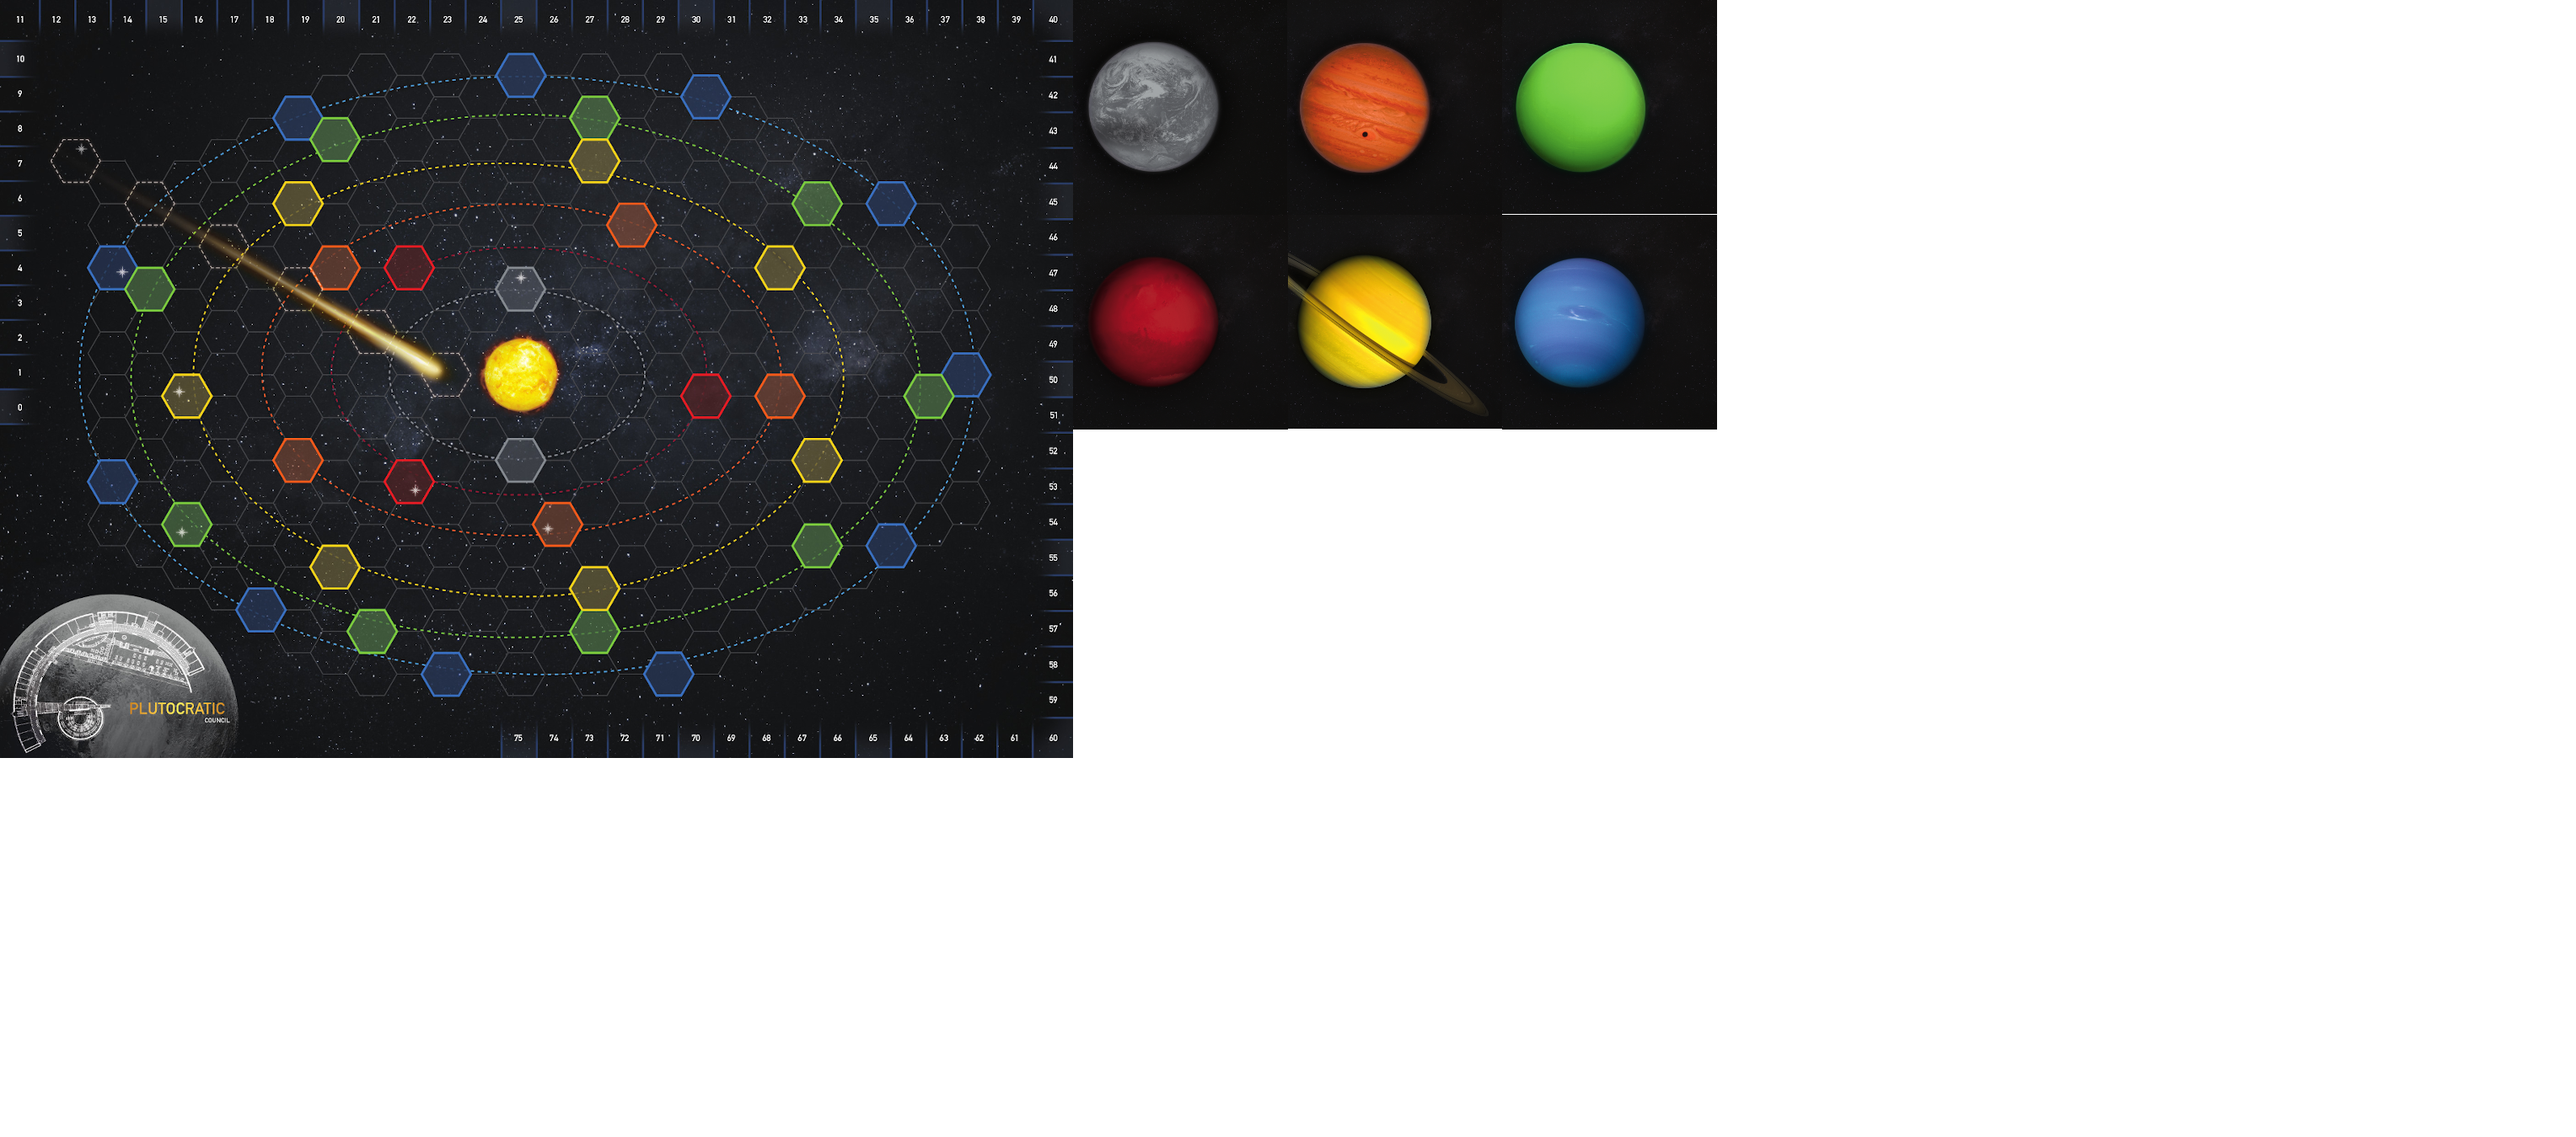
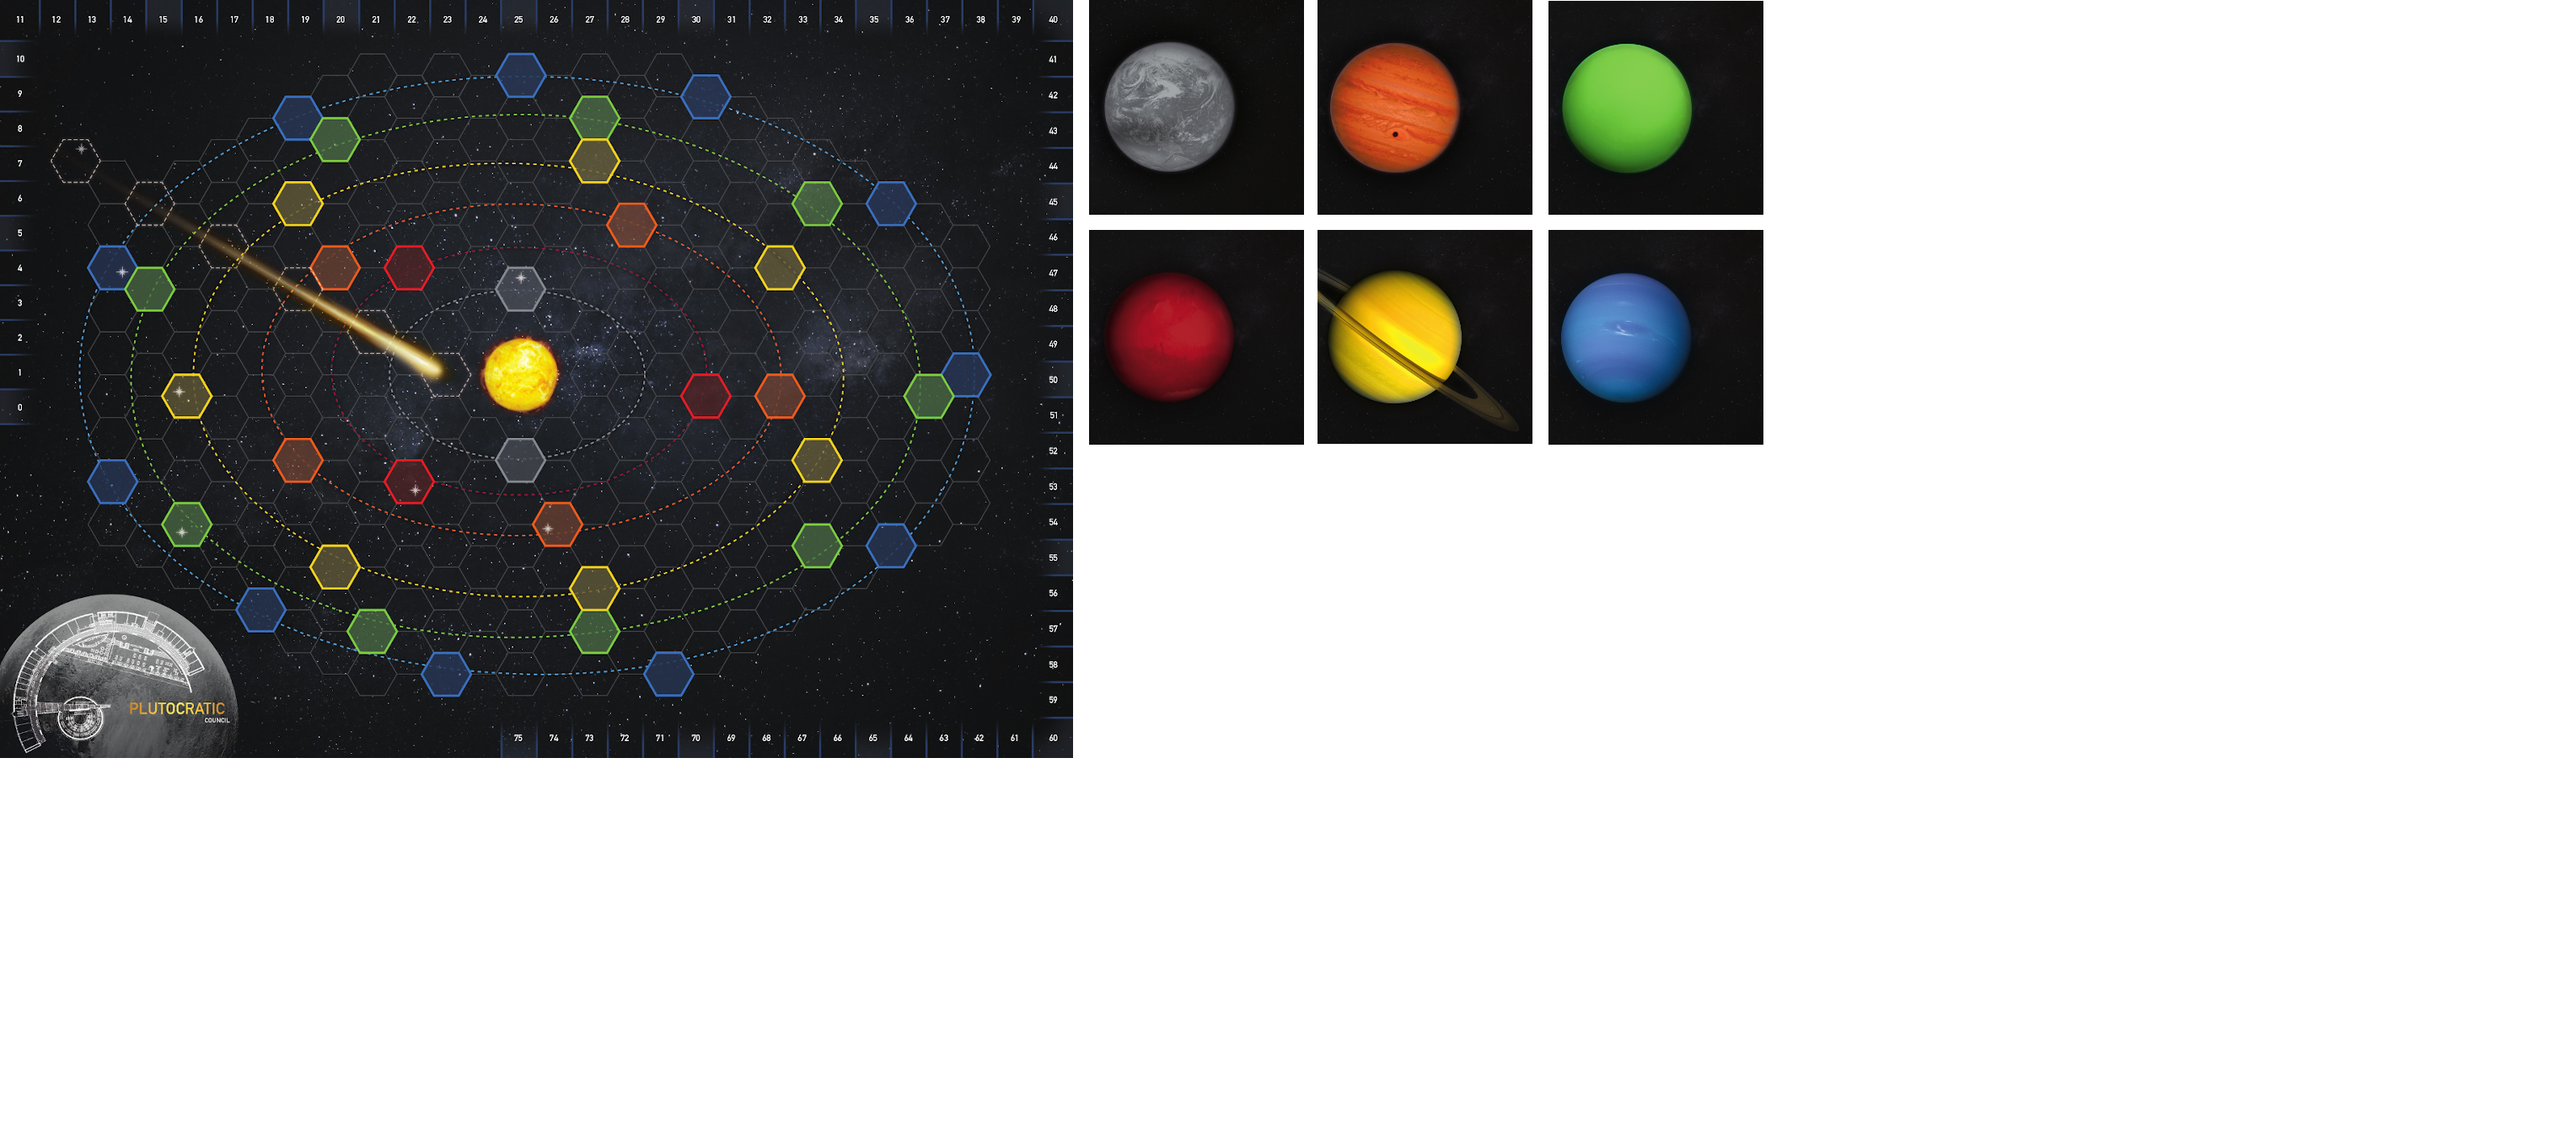
add empty space

Changed region(s): [[0.4041, 0.0, 0.6839, 0.4044]]

diff --git a/script.js b/script.js
@@ -80,7 +80,7 @@ DISTANCES[2][0][0][0] = 9
 const DISTANCES = [[[[2,8],[8,5,7],[9,9,7,5,9],[11,8,6,9,10,10,11],[12,12,8,7,10,13,12,11,12],[13,9,7,9,12,14,13,13,12,13,13]],[[8,2],[5,8,7],[4,8,9,9,9],[11,11,10,10,10,6,7],[11,12,12,11,12,13,10,7,8],[13,13,11,13,13,14,12,9,8,9,13]]],[[[8,5],[2,7,10],[6,5,8,11,12],[8,10,12,12,13,7,5],[8,10,11,13,14,16,13,8,6],[11,12,13,15,15,17,15,10,7,7,10]],[[5,8],[7,2,10],[10,8,4,8,12],[8,5,7,12,13,12,10],[11,9,6,8,13,16,14,13,11],[10,7,8,10,15,17,15,15,12,12,11]],[[7,7],[10,10,2],[7,13,12,7,4],[16,13,9,6,5,8,12],[16,17,13,10,8,8,7,9,12],[18,14,12,9,9,9,8,9,12,14,18]]],[[[9,4],[6,10,7],[2,9,11,10,8],[12,13,11,11,9,4,8],[12,13,14,12,13,12,9,5,7],[14,15,13,14,14,13,11,7,7,10,14]],[[9,8],[5,8,13],[9,2,7,12,15],[5,8,13,15,16,10,5],[5,8,10,14,16,19,16,10,7],[9,10,14,16,18,20,18,12,9,6,7]],[[7,9],[8,4,12],[11,7,2,10,14],[7,4,9,14,15,13,9],[10,7,5,9,15,18,15,14,11],[8,6,9,12,17,19,17,16,13,11,10]],[[5,9],[11,8,7],[10,12,10,2,8],[14,11,4,6,10,11,14],[15,15,10,5,7,12,12,12,15],[16,11,7,6,9,12,13,13,15,16,16]],[[9,9],[12,12,4],[8,15,14,8,2],[18,15,10,5,4,9,14],[18,19,14,11,7,6,6,10,13],[20,15,13,10,8,7,7,10,13,16,20]]],[[[11,11],[8,8,16],[12,5,7,14,18],[2,8,13,18,19,13,8],[5,5,10,14,19,22,19,13,10],[6,10,14,16,21,23,21,15,12,8,5]],[[8,11],[10,5,13],[13,8,4,11,15],[8,2,10,15,16,15,11],[11,6,4,10,16,19,17,16,13],[7,4,8,13,18,20,18,18,15,12,11]],[[6,10],[12,7,9],[11,13,9,4,10],[13,10,2,7,12,12,15],[16,14,9,3,8,14,14,13,16],[15,10,5,5,10,14,15,15,16,17,16]],[[9,10],[12,12,6],[11,15,14,6,5],[18,15,7,2,7,12,15],[18,19,14,8,4,9,9,13,16],[20,15,10,7,5,9,10,13,16,17,20]],[[10,10],[13,13,5],[9,16,15,10,4],[19,16,12,7,2,8,15],[19,20,16,13,8,5,4,9,14],[21,17,15,12,9,6,5,9,12,17,21]],[[10,6],[7,12,8],[4,10,13,11,9],[13,15,12,12,8,2,9],[13,15,16,13,14,11,8,3,8],[16,17,15,15,15,12,10,5,6,11,15]],[[11,7],[5,10,12],[8,5,9,14,14],[8,11,15,15,15,9,2],[6,11,12,16,17,18,15,9,4],[12,13,16,18,18,19,17,11,6,4,8]]],[[[12,11],[8,11,16],[12,5,10,15,18],[5,11,16,18,19,13,6],[2,8,13,17,19,22,19,13,7],[9,13,17,19,21,23,21,15,9,5,4]],[[12,12],[10,9,17],[13,8,7,15,19],[5,6,14,19,20,15,11],[8,2,8,14,20,23,20,16,13],[3,8,12,17,22,24,22,18,15,11,7]],[[8,12],[11,6,13],[14,10,5,10,14],[10,4,9,14,16,16,12],[13,8,2,9,15,18,18,17,14],[8,3,7,12,17,19,19,19,16,14,13]],[[7,11],[13,8,10],[12,14,9,5,11],[14,10,3,8,13,13,16],[17,14,9,2,8,15,15,14,17],[15,10,4,5,10,15,16,16,17,18,17]],[[10,12],[14,13,8],[13,16,15,7,7],[19,16,8,4,8,14,17],[19,20,15,8,2,10,10,15,18],[21,16,10,6,4,10,11,15,18,19,21]],[[13,13],[16,16,8],[12,19,18,12,6],[22,19,14,9,5,11,18],[22,23,18,15,10,2,5,11,17],[24,19,17,14,9,3,4,10,15,20,24]],[[12,10],[13,14,7],[9,16,15,12,6],[19,17,14,9,4,8,15],[19,20,18,15,10,5,2,8,14],[21,19,17,14,11,6,4,7,12,17,21]],[[11,7],[8,13,9],[5,10,14,12,10],[13,16,13,13,9,3,9],[13,16,17,14,15,11,8,2,8],[17,18,16,16,16,12,10,4,6,11,15]],[[12,8],[6,11,12],[7,7,11,15,13],[10,13,16,16,14,8,4],[7,13,14,17,18,17,14,8,2],[14,15,17,19,19,18,16,10,4,5,9]]],[[[13,13],[11,10,18],[14,9,8,16,20],[6,7,15,20,21,16,12],[9,3,8,15,21,24,21,17,14],[2,8,13,18,23,25,23,19,16,12,7]],[[9,13],[12,7,14],[15,10,6,11,15],[10,4,10,15,17,17,13],[13,8,3,10,16,19,19,18,15],[8,2,8,13,18,20,20,20,17,14,13]],[[7,11],[13,8,12],[13,14,9,7,13],[14,8,5,10,15,15,16],[17,12,7,4,10,17,17,16,17],[13,8,2,7,12,17,18,18,17,18,17]],[[9,13],[15,10,9],[14,16,12,6,10],[16,13,5,7,12,15,18],[19,17,12,5,6,14,14,16,19],[18,13,7,2,7,14,15,16,19,20,19]],[[12,13],[15,15,9],[14,18,17,9,8],[21,18,10,5,9,15,18],[21,22,17,10,4,9,11,16,19],[23,18,12,7,2,9,10,16,19,20,23]],[[14,14],[17,17,9],[13,20,19,12,7],[23,20,14,9,6,12,19],[23,24,19,15,10,3,6,12,18],[25,20,17,14,9,2,5,11,16,21,25]],[[13,12],[15,15,8],[11,18,17,13,7],[21,18,15,10,5,10,17],[21,22,19,16,11,4,4,10,16],[23,20,18,15,10,5,2,8,14,19,23]],[[13,9],[10,15,9],[7,12,16,13,10],[15,18,15,13,9,5,11],[15,18,19,16,15,10,7,4,10],[19,20,18,16,16,11,8,2,8,13,17]],[[12,8],[7,12,12],[7,9,13,15,13],[12,15,16,16,12,6,6],[9,15,16,17,18,15,12,6,4],[16,17,17,19,19,16,14,8,2,7,11]],[[13,9],[7,12,14],[10,6,11,16,16],[8,12,17,17,17,11,4],[5,11,14,18,19,20,17,11,5],[12,14,18,20,20,21,19,13,7,2,7]],[[13,13],[10,11,18],[14,7,10,16,20],[5,11,16,20,21,15,8],[4,7,13,17,21,24,21,15,9],[7,13,17,19,23,25,23,17,11,7,2]]]]
 
 
-let MAINBOARD_OFFSET = [0, 0]
+let MAINBOARD_OFFSET = [10, 10]
 let DRAWING_PILE_OFFSET = [0, 0]
 let DISCARD_PILE_OFFSET = [0, 0]
 let PLANET_OFFSET = [425, 0]
@@ -453,16 +453,16 @@ function getImagePosition() {
         "left": 0,
         "top": 0
     } //image.getBoundingClientRect();
-    PLANET_OFFSET[0] = rect.left + 700
+    PLANET_OFFSET[0] = rect.left + 710
     PLANET_OFFSET[1] = rect.top
     MAINBOARD_OFFSET[0] = rect.left
     MAINBOARD_OFFSET[1] = rect.top
 
     
-    SHIP_OFFSET[0] = PLANET_OFFSET[0] + 35
-    SHIP_OFFSET[1] = PLANET_OFFSET[1] + 6*46 + 35
-    DRAWING_PILE_OFFSET[0] = SHIP_OFFSET[0]
-    DRAWING_PILE_OFFSET[1] = SHIP_OFFSET[1] + 2*46 - 10
+    SHIP_OFFSET[0] = PLANET_OFFSET[0] + 10
+    SHIP_OFFSET[1] = PLANET_OFFSET[1] + 350
+    DRAWING_PILE_OFFSET[0] = SHIP_OFFSET[0] + 340
+    DRAWING_PILE_OFFSET[1] = SHIP_OFFSET[1] - 46
     DISCARD_PILE_OFFSET[0] = DRAWING_PILE_OFFSET[0]
     DISCARD_PILE_OFFSET[1] = DRAWING_PILE_OFFSET[1] + 46 + 10
 }
@@ -696,8 +696,8 @@ function setPositionFixedElements()
         }
         for(let i = 0; i<3;i++){
             let position = [
-                SCALE*(PLANET_OFFSET[0] + 70 + Math.floor(planet/2)*140),
-                SCALE*(PLANET_OFFSET[1] + (i + (planet % 2)*3)*46)
+                SCALE*(PLANET_OFFSET[0] + 71 + Math.floor(planet/2)*150),
+                SCALE*(PLANET_OFFSET[1] + i*46 + (planet % 2)*(3*46 + 12))
             ]
             passenger = setPosition('Passenger_' + i + '_Planet_' + planet, position)
             if(i<PLANET_PASSENGERS[planet].length){
@@ -780,10 +780,10 @@ function setPositionFixedElements()
         }
     }
 
-    setPosition('new_game', [DISCARD_PILE_OFFSET[0] + 250, DISCARD_PILE_OFFSET[1]])
-    setPosition('reset_turn', [DRAWING_PILE_OFFSET[0] + 100, DRAWING_PILE_OFFSET[1]])
-    setPosition('end_turn', [DRAWING_PILE_OFFSET[0] + 250, DRAWING_PILE_OFFSET[1]])
-    setPosition('help_button', [DRAWING_PILE_OFFSET[0] + 100, DISCARD_PILE_OFFSET[1]])
+    setPosition('new_game', [SHIP_OFFSET[0] + 300, DISCARD_PILE_OFFSET[1] + 70])
+    setPosition('reset_turn', [SHIP_OFFSET[0], DISCARD_PILE_OFFSET[1] + 70])
+    setPosition('end_turn', [SHIP_OFFSET[0] + 120, DISCARD_PILE_OFFSET[1] + 70])
+    setPosition('help_button', [SHIP_OFFSET[0] + 240, DISCARD_PILE_OFFSET[1] + 70])
 }
 
 function makePlanetsClickable()

diff --git a/styles.css b/styles.css
@@ -4,8 +4,11 @@ body {
     /*display: flex;
     justify-content: center;
     align-items: center;
-    height: 100vh;*/
-    background-color: black;;
+    height: 100vh;
+    background-color: black;;*/
+    background: url('pics/Light-Wood-Background-Wallpaper.jpg');
+    background-size: cover;
+    background-repeat: no-repeat;
 }
 
 .container img {
@@ -46,7 +49,9 @@ footer {
 }
 
 #root {
-    position: relative;
+    position: absolute;
+    top: 10px;
+    left: 10px;
     width: 1683px;
     height: 744px;
     background: url('pics/main_image2.png') no-repeat left top;
